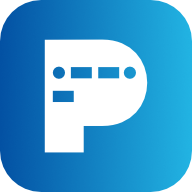
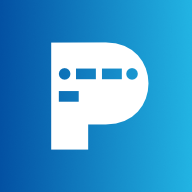
Deploy kfarnung/puzztool to github.com/kfarnung/puzztool.git:gh-pages

diff --git a/index.html b/index.html
@@ -1,1 +1,1 @@
-<!doctype html><html lang="en"><head><meta charset="utf-8"/><meta name="viewport" content="width=device-width,initial-scale=1,maximum-scale=1,viewport-fit=cover,user-scalable=no,shrink-to-fit=no"/><meta name="theme-color" content="#000000"/><meta name="keywords" content="puzzle, solver, puzztool, puzz, tool, cipher, braille, semaphore"/><meta name="description" content="PuzzTool helps solve encodings and ciphers used in puzzle competitions such as Puzzle Hunt, Puzzled Pint, and others"/><meta name="robots" content="index, follow"/><link rel="manifest" href="/puzztool/manifest.json"/><link rel="shortcut icon" href="/puzztool/icons-64.png"/><link rel="apple-touch-icon" href="/puzztool/icons-192-apple.png"/><title>PuzzTool</title><link href="/puzztool/static/css/main.136ca013.chunk.css" rel="stylesheet"></head><body><noscript>You need to enable JavaScript to run this app.</noscript><div id="root"></div><script>!function(e){function t(t){for(var n,o,u=t[0],i=t[1],f=t[2],l=0,d=[];l<u.length;l++)o=u[l],Object.prototype.hasOwnProperty.call(a,o)&&a[o]&&d.push(a[o][0]),a[o]=0;for(n in i)Object.prototype.hasOwnProperty.call(i,n)&&(e[n]=i[n]);for(s&&s(t);d.length;)d.shift()();return c.push.apply(c,f||[]),r()}function r(){for(var e,t=0;t<c.length;t++){for(var r=c[t],n=!0,o=1;o<r.length;o++){var i=r[o];0!==a[i]&&(n=!1)}n&&(c.splice(t--,1),e=u(u.s=r[0]))}return e}var n={},o={2:0},a={2:0},c=[];function u(t){if(n[t])return n[t].exports;var r=n[t]={i:t,l:!1,exports:{}};return e[t].call(r.exports,r,r.exports,u),r.l=!0,r.exports}u.e=function(e){var t=[];o[e]?t.push(o[e]):0!==o[e]&&{4:1,5:1,6:1,7:1,8:1,9:1,10:1,11:1,12:1,13:1,14:1,15:1,16:1,17:1,18:1}[e]&&t.push(o[e]=new Promise((function(t,r){for(var n="static/css/"+({}[e]||e)+"."+{0:"31d6cfe0",4:"b7110742",5:"d4a04866",6:"52e0cb4e",7:"79ba6fbf",8:"453f3aaa",9:"2ddd237a",10:"e3ed52be",11:"35b614db",12:"c143d694",13:"f80a6a42",14:"8d730be1",15:"f2a44c1d",16:"27875f63",17:"1819218c",18:"44a16c87"}[e]+".chunk.css",a=u.p+n,c=document.getElementsByTagName("link"),i=0;i<c.length;i++){var f=(s=c[i]).getAttribute("data-href")||s.getAttribute("href");if("stylesheet"===s.rel&&(f===n||f===a))return t()}var l=document.getElementsByTagName("style");for(i=0;i<l.length;i++){var s;if((f=(s=l[i]).getAttribute("data-href"))===n||f===a)return t()}var d=document.createElement("link");d.rel="stylesheet",d.type="text/css",d.onload=t,d.onerror=function(t){var n=t&&t.target&&t.target.src||a,c=new Error("Loading CSS chunk "+e+" failed.\n("+n+")");c.code="CSS_CHUNK_LOAD_FAILED",c.request=n,delete o[e],d.parentNode.removeChild(d),r(c)},d.href=a,document.getElementsByTagName("head")[0].appendChild(d)})).then((function(){o[e]=0})));var r=a[e];if(0!==r)if(r)t.push(r[2]);else{var n=new Promise((function(t,n){r=a[e]=[t,n]}));t.push(r[2]=n);var c,i=document.createElement("script");i.charset="utf-8",i.timeout=120,u.nc&&i.setAttribute("nonce",u.nc),i.src=function(e){return u.p+"static/js/"+({}[e]||e)+"."+{0:"c9cf57a6",4:"4c48c2ce",5:"1ea2c2ad",6:"b184c15d",7:"cbca3e3a",8:"f36e0764",9:"48b9f7a6",10:"27e8b0a2",11:"aeaf76ab",12:"14fb44ce",13:"235df561",14:"ea2b1a41",15:"d52becd0",16:"b3fe536f",17:"ede09a75",18:"1645f62a"}[e]+".chunk.js"}(e);var f=new Error;c=function(t){i.onerror=i.onload=null,clearTimeout(l);var r=a[e];if(0!==r){if(r){var n=t&&("load"===t.type?"missing":t.type),o=t&&t.target&&t.target.src;f.message="Loading chunk "+e+" failed.\n("+n+": "+o+")",f.name="ChunkLoadError",f.type=n,f.request=o,r[1](f)}a[e]=void 0}};var l=setTimeout((function(){c({type:"timeout",target:i})}),12e4);i.onerror=i.onload=c,document.head.appendChild(i)}return Promise.all(t)},u.m=e,u.c=n,u.d=function(e,t,r){u.o(e,t)||Object.defineProperty(e,t,{enumerable:!0,get:r})},u.r=function(e){"undefined"!=typeof Symbol&&Symbol.toStringTag&&Object.defineProperty(e,Symbol.toStringTag,{value:"Module"}),Object.defineProperty(e,"__esModule",{value:!0})},u.t=function(e,t){if(1&t&&(e=u(e)),8&t)return e;if(4&t&&"object"==typeof e&&e&&e.__esModule)return e;var r=Object.create(null);if(u.r(r),Object.defineProperty(r,"default",{enumerable:!0,value:e}),2&t&&"string"!=typeof e)for(var n in e)u.d(r,n,function(t){return e[t]}.bind(null,n));return r},u.n=function(e){var t=e&&e.__esModule?function(){return e.default}:function(){return e};return u.d(t,"a",t),t},u.o=function(e,t){return Object.prototype.hasOwnProperty.call(e,t)},u.p="/puzztool/",u.oe=function(e){throw console.error(e),e};var i=this.webpackJsonppuzztool=this.webpackJsonppuzztool||[],f=i.push.bind(i);i.push=t,i=i.slice();for(var l=0;l<i.length;l++)t(i[l]);var s=f;r()}([])</script><script src="/puzztool/static/js/3.87574402.chunk.js"></script><script src="/puzztool/static/js/main.aacd3caf.chunk.js"></script></body></html>
+<!doctype html><html lang="en"><head><meta charset="utf-8"/><meta name="viewport" content="width=device-width,initial-scale=1,maximum-scale=1,viewport-fit=cover,user-scalable=no,shrink-to-fit=no"/><meta name="theme-color" content="#000000"/><meta name="keywords" content="puzzle, solver, puzztool, puzz, tool, cipher, braille, semaphore"/><meta name="description" content="PuzzTool helps solve encodings and ciphers used in puzzle competitions such as Puzzle Hunt, Puzzled Pint, and others"/><meta name="robots" content="index, follow"/><link rel="manifest" href="/puzztool/manifest.json"/><link rel="shortcut icon" href="/puzztool/icons-64.png"/><link rel="apple-touch-icon" href="/puzztool/icons-192.png"/><title>PuzzTool</title><link href="/puzztool/static/css/main.136ca013.chunk.css" rel="stylesheet"></head><body><noscript>You need to enable JavaScript to run this app.</noscript><div id="root"></div><script>!function(e){function t(t){for(var n,o,u=t[0],i=t[1],f=t[2],l=0,d=[];l<u.length;l++)o=u[l],Object.prototype.hasOwnProperty.call(a,o)&&a[o]&&d.push(a[o][0]),a[o]=0;for(n in i)Object.prototype.hasOwnProperty.call(i,n)&&(e[n]=i[n]);for(s&&s(t);d.length;)d.shift()();return c.push.apply(c,f||[]),r()}function r(){for(var e,t=0;t<c.length;t++){for(var r=c[t],n=!0,o=1;o<r.length;o++){var i=r[o];0!==a[i]&&(n=!1)}n&&(c.splice(t--,1),e=u(u.s=r[0]))}return e}var n={},o={2:0},a={2:0},c=[];function u(t){if(n[t])return n[t].exports;var r=n[t]={i:t,l:!1,exports:{}};return e[t].call(r.exports,r,r.exports,u),r.l=!0,r.exports}u.e=function(e){var t=[];o[e]?t.push(o[e]):0!==o[e]&&{4:1,5:1,6:1,7:1,8:1,9:1,10:1,11:1,12:1,13:1,14:1,15:1,16:1,17:1,18:1}[e]&&t.push(o[e]=new Promise((function(t,r){for(var n="static/css/"+({}[e]||e)+"."+{0:"31d6cfe0",4:"b7110742",5:"d4a04866",6:"52e0cb4e",7:"79ba6fbf",8:"453f3aaa",9:"2ddd237a",10:"e3ed52be",11:"35b614db",12:"c143d694",13:"f80a6a42",14:"8d730be1",15:"f2a44c1d",16:"27875f63",17:"1819218c",18:"44a16c87"}[e]+".chunk.css",a=u.p+n,c=document.getElementsByTagName("link"),i=0;i<c.length;i++){var f=(s=c[i]).getAttribute("data-href")||s.getAttribute("href");if("stylesheet"===s.rel&&(f===n||f===a))return t()}var l=document.getElementsByTagName("style");for(i=0;i<l.length;i++){var s;if((f=(s=l[i]).getAttribute("data-href"))===n||f===a)return t()}var d=document.createElement("link");d.rel="stylesheet",d.type="text/css",d.onload=t,d.onerror=function(t){var n=t&&t.target&&t.target.src||a,c=new Error("Loading CSS chunk "+e+" failed.\n("+n+")");c.code="CSS_CHUNK_LOAD_FAILED",c.request=n,delete o[e],d.parentNode.removeChild(d),r(c)},d.href=a,document.getElementsByTagName("head")[0].appendChild(d)})).then((function(){o[e]=0})));var r=a[e];if(0!==r)if(r)t.push(r[2]);else{var n=new Promise((function(t,n){r=a[e]=[t,n]}));t.push(r[2]=n);var c,i=document.createElement("script");i.charset="utf-8",i.timeout=120,u.nc&&i.setAttribute("nonce",u.nc),i.src=function(e){return u.p+"static/js/"+({}[e]||e)+"."+{0:"c9cf57a6",4:"4c48c2ce",5:"1ea2c2ad",6:"b184c15d",7:"cbca3e3a",8:"f36e0764",9:"48b9f7a6",10:"27e8b0a2",11:"aeaf76ab",12:"14fb44ce",13:"235df561",14:"ea2b1a41",15:"d52becd0",16:"b3fe536f",17:"ede09a75",18:"1645f62a"}[e]+".chunk.js"}(e);var f=new Error;c=function(t){i.onerror=i.onload=null,clearTimeout(l);var r=a[e];if(0!==r){if(r){var n=t&&("load"===t.type?"missing":t.type),o=t&&t.target&&t.target.src;f.message="Loading chunk "+e+" failed.\n("+n+": "+o+")",f.name="ChunkLoadError",f.type=n,f.request=o,r[1](f)}a[e]=void 0}};var l=setTimeout((function(){c({type:"timeout",target:i})}),12e4);i.onerror=i.onload=c,document.head.appendChild(i)}return Promise.all(t)},u.m=e,u.c=n,u.d=function(e,t,r){u.o(e,t)||Object.defineProperty(e,t,{enumerable:!0,get:r})},u.r=function(e){"undefined"!=typeof Symbol&&Symbol.toStringTag&&Object.defineProperty(e,Symbol.toStringTag,{value:"Module"}),Object.defineProperty(e,"__esModule",{value:!0})},u.t=function(e,t){if(1&t&&(e=u(e)),8&t)return e;if(4&t&&"object"==typeof e&&e&&e.__esModule)return e;var r=Object.create(null);if(u.r(r),Object.defineProperty(r,"default",{enumerable:!0,value:e}),2&t&&"string"!=typeof e)for(var n in e)u.d(r,n,function(t){return e[t]}.bind(null,n));return r},u.n=function(e){var t=e&&e.__esModule?function(){return e.default}:function(){return e};return u.d(t,"a",t),t},u.o=function(e,t){return Object.prototype.hasOwnProperty.call(e,t)},u.p="/puzztool/",u.oe=function(e){throw console.error(e),e};var i=this.webpackJsonppuzztool=this.webpackJsonppuzztool||[],f=i.push.bind(i);i.push=t,i=i.slice();for(var l=0;l<i.length;l++)t(i[l]);var s=f;r()}([])</script><script src="/puzztool/static/js/3.87574402.chunk.js"></script><script src="/puzztool/static/js/main.aacd3caf.chunk.js"></script></body></html>

diff --git a/service-worker.js b/service-worker.js
@@ -14,7 +14,7 @@
 importScripts("https://storage.googleapis.com/workbox-cdn/releases/4.3.1/workbox-sw.js");
 
 importScripts(
-  "/puzztool/precache-manifest.ef4e793c2db3e32dcdf410bde7202d8f.js"
+  "/puzztool/precache-manifest.2734aa1ed2a3e14e63c12a9e3453da56.js"
 );
 
 self.addEventListener('message', (event) => {

diff --git a/precache-manifest.2734aa1ed2a3e14e63c12a9e3453da56.js b/precache-manifest.2734aa1ed2a3e14e63c12a9e3453da56.js
@@ -1,6 +1,6 @@
 self.__precacheManifest = (self.__precacheManifest || []).concat([
   {
-    "revision": "f2830b575045a6e70615658796c4f345",
+    "revision": "b6c76c833da4827416e1ef2120324db3",
     "url": "/puzztool/index.html"
   },
   {
